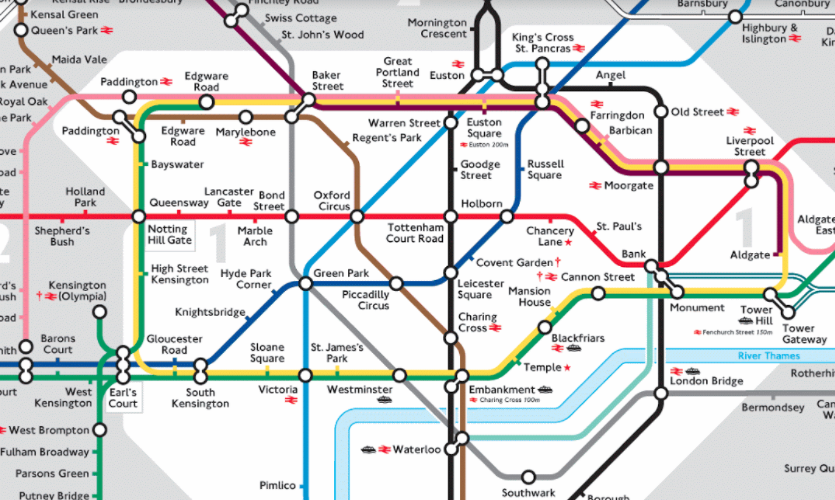
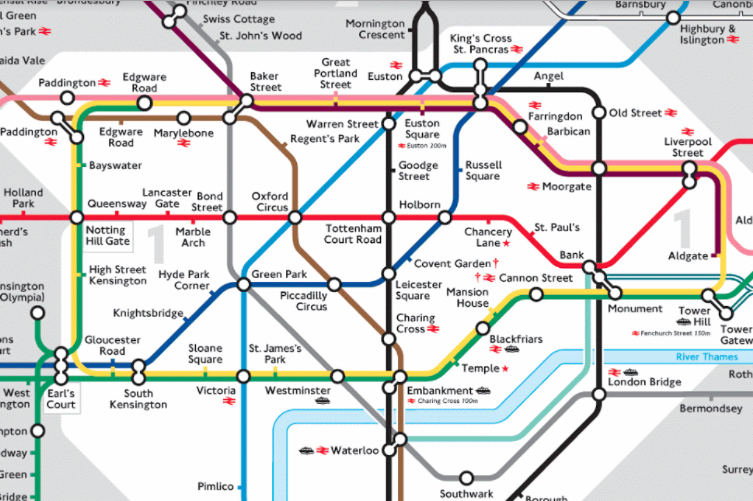
Added working SlideToggle function to details panel on map

diff --git a/Map.html b/Map.html
@@ -1,50 +1,58 @@
 <!DOCTYPE html>
 <html>
 <head>
-	<title>CFG Project</title>
+	<title>COFFEE STOP | MAP</title>
 	<meta name="viewport" content="width=device-width, initial-scale=1">
 	<link rel="stylesheet" type="text/css" href="primary.css">
 	<link rel="icon" type="image/png" href="http://img.pngpicture.com/content/files/clipart/6/coffee/36183-1.png"/>
   <link href="https://fonts.googleapis.com/css?family=Gloria+Hallelujah" rel="stylesheet">
   <link href='dist/css/bootstrap.css' rel=' stylesheet'>
+   <script type="text/javascript" src="https://ajax.googleapis.com/ajax/libs/jquery/3.2.1/jquery.min.js"></script>
+  <script src="Maps.js"></script>
 </head>
+
 <body class="BlueBackground">
 	<!-- Menu bar goes here (Contact Us/About Us/Map - add in naviation with bootstrap)-->
 <div class="menubar">
     <nav>
+      <img class="NavBarLogo" src="https://imgur.com/Q8Sw295.png" name="underground" width="40" height="35"  alt=Underground Sign>
       <a href="landingpage.html">Home</a>
       <a href="map.html">Map</a>
       <a href="about.html">About</a>
       <a href="contact.html">Contact Us</a> 
     </nav>
   </div>
-
-<p>
+<br>
+<p id="Map-Explanation">
 Click the tube stops on the map to find the best coffee locations around central London!
 </p>
 
 <!--Picture of tube map here with area coordinates linked to each station from http://imagemap-generator.dariodomi.de/-->
-<!--Split screen left and right using bootstrap-->
- <!-- Add in pop ups linked to each station with Coffee place details-->
+<div class="container">
+  <div class="row">
 
-
+<div class="col-md-8">
 <img src="Zone1TubeMap.png" id="Zone1TubeMap" alt="Zone 1 Tube Map" usemap="#Map" />
 <map name="Map" id="Map">
-    <area alt=" Kings Cross St Pancras" title="" href="#" shape="rect" coords="535,57,549,110" />
-    <area alt="Old Street" title="" href="#" shape="rect" coords="654,104,669,119" />
-    <area alt="Liverpool Street" title="" href="#" shape="rect" coords="746,159,759,187" />
-    <area alt="Baker Street" title="" href="#" shape="rect" coords="283,95,311,121" />
-    <area alt="Paddington" title="" href="#" shape="rect" coords="113,111,147,144" />
-    <area alt="Oxford Circus" title="" href="#" shape="rect" coords="352,211,363,223" />
-    <area alt="Leicester Square" title="" href="#" shape="rect" coords="445,266,459,280" />
-    <area alt="South Kensington" title="South Kensington" href="#" shape="rect" coords="207,382,194,357" />
-    <area alt="Embankment" title="" href="#" shape="rect" coords="470,368,449,394" />
-    <area alt="London Bridge" title="" href="#" shape="rect" coords="653,386,669,403" />
-</map>
+    <area id="KX" alt="Kings Cross St Pancras" title="" href="#" shape="rect" coords="474,58,488,111"/>
+    <area alt="Baker Street" title="" href="#" shape="rect" coords="221,94,252,124" />
+    <area alt="South Kensington" title="" href="#" shape="rect" coords="131,359,146,384" />
+    <area alt="Oxford Circus" title="" href="#" shape="rect" coords="287,208,303,225" />
+    <area alt="Embankment" title="" href="#" shape="rect" coords="383,370,410,398" />
+    <area alt="London Bridge" title="" href="#" shape="rect" coords="594,385,608,402" />
+    <area alt="Liverpool Street" title="" href="#" shape="rect" coords="682,156,700,192" />
+    <area alt="Old Street" title="" href="#" shape="rect" coords="593,104,613,124" />
+    <area alt="Leicester Square" title="" href="#" shape="rect" coords="380,268,398,283" />
+    <area alt="Paddington" title="" href="#" shape="rect" coords="47,91,89,145" />
+</map> </div>
 
-<script
-  src="https://code.jquery.com/jquery-3.2.1.min.js"
-  integrity="sha256-hwg4gsxgFZhOsEEamdOYGBf13FyQuiTwlAQgxVSNgt4="
-  crossorigin="anonymous"></script>
+<div id="KXD" class="boxes">
+  <h1> Kings Cross St Pancras | Coffee Shop </h1>
+  <small> Details about the Coffee shop </small>
+  <img src="https://ats-alltopstartups.netdna-ssl.com//wp-content/uploads/2016/12/How-to-Open-a-Coffee-Shop-.png" width="340px" height="195px"> </div>
+</div>
+</div>
+
+<hr>
 </body>
 </html>

diff --git a/LandingPage.html b/LandingPage.html
@@ -1,10 +1,9 @@
 <!DOCTYPE html>
 <head>
-	<title>CFG Project</title>
+<title>COFFEE STOP | HOME</title>
 	<meta name="viewport" content="width=device-width, initial-scale=1">
-	<link rel="stylesheet" type="text/css" href="primary.css">
 	<link rel="icon" type="image/png" href="http://img.pngpicture.com/content/files/clipart/6/coffee/36183-1.png"/>
-	<link href="https://fonts.googleapis.com/css?family=Gloria+Hallelujah" rel="stylesheet">
+	<link rel="stylesheet" type="text/css" href="primary.css">
 	<link href='dist/css/bootstrap.css' rel=' stylesheet'>
 	<script src="https://code.jquery.com/jquery-3.2.1.min.js"> </script>
 	<script src="LandingPage.js"></script>
@@ -32,8 +31,8 @@
 	<a href="" onMouseOver="document.underground.src='http://img.pngpicture.com/content/files/clipart/6/coffee/36183-1.png';" onMouseOut="document.underground.src='https://imgur.com/Q8Sw295.png';">
 	<img src="https://imgur.com/Q8Sw295.png" name="underground" width="450" height="350"  alt=Underground Sign> </a>
 </div>	
-
 <br>
-<h1 class='LandingPageText'> The best coffee spots in Central London </h1>
+<br>
+<h1 class="LandingPageText"> The best coffee spots in Central London </h1>
 
 </body>

diff --git a/primary.css b/primary.css
@@ -1,11 +1,11 @@
 
 /*Universal CSS*/
 * {
-	font-family: 'Gloria Hallelujah', cursive;
+	font-family: Courier ;
 }
 .BlueBackground{
 	background-color: rgb(0,5,142);
-	font-family: courier new;
+	font-family: Courier;
 	color: white;
 }
 
@@ -19,7 +19,8 @@ nav a {
 	background-color: white;
 	border: solid red 5px;
 	margin-bottom: 18px;
-	color: rgb(0,5,142);	
+	color: rgb(0,5,142);
+	opacity: 1;	
 }
 
 .menubar {
@@ -44,6 +45,10 @@ div{
 img{
 	background-image: auto;
 	background-color: transparent;
+}
+.NavBarLogo {
+	float: left;
+	background-color: white;
 }
  .class {
  	position: center;
@@ -76,7 +81,8 @@ img{
 .LandingPageText {
 	margin: 0 auto;
 	text-align: center;
-	font-size: 40px;
+	font-size: 53px;
+	font-family: Courier;
 }
 
  /*Train*/
@@ -124,9 +130,19 @@ img{
 }
 
  /* Map Page */
- .Zone1TubeMap img {
- 	border-radius: 25px;
+ #Zone1TubeMap {
+ 	border-radius: 50px;
  }
+
+ #Map-Explanation {
+ 	text-align: center;
+ 	font-color: black;
+ }
+
+#KXD {
+  display: none;
+}
+
 
  /*About Page*/
 

diff --git a/Maps.js b/Maps.js
@@ -1,2 +1,9 @@
 
 /* This is the js page for Maps */
+alert('Hello Word')
+
+ $(document).ready(function(){
+            $("#KX").click(function(){
+                $('.boxes').slideToggle();
+            });
+        });
